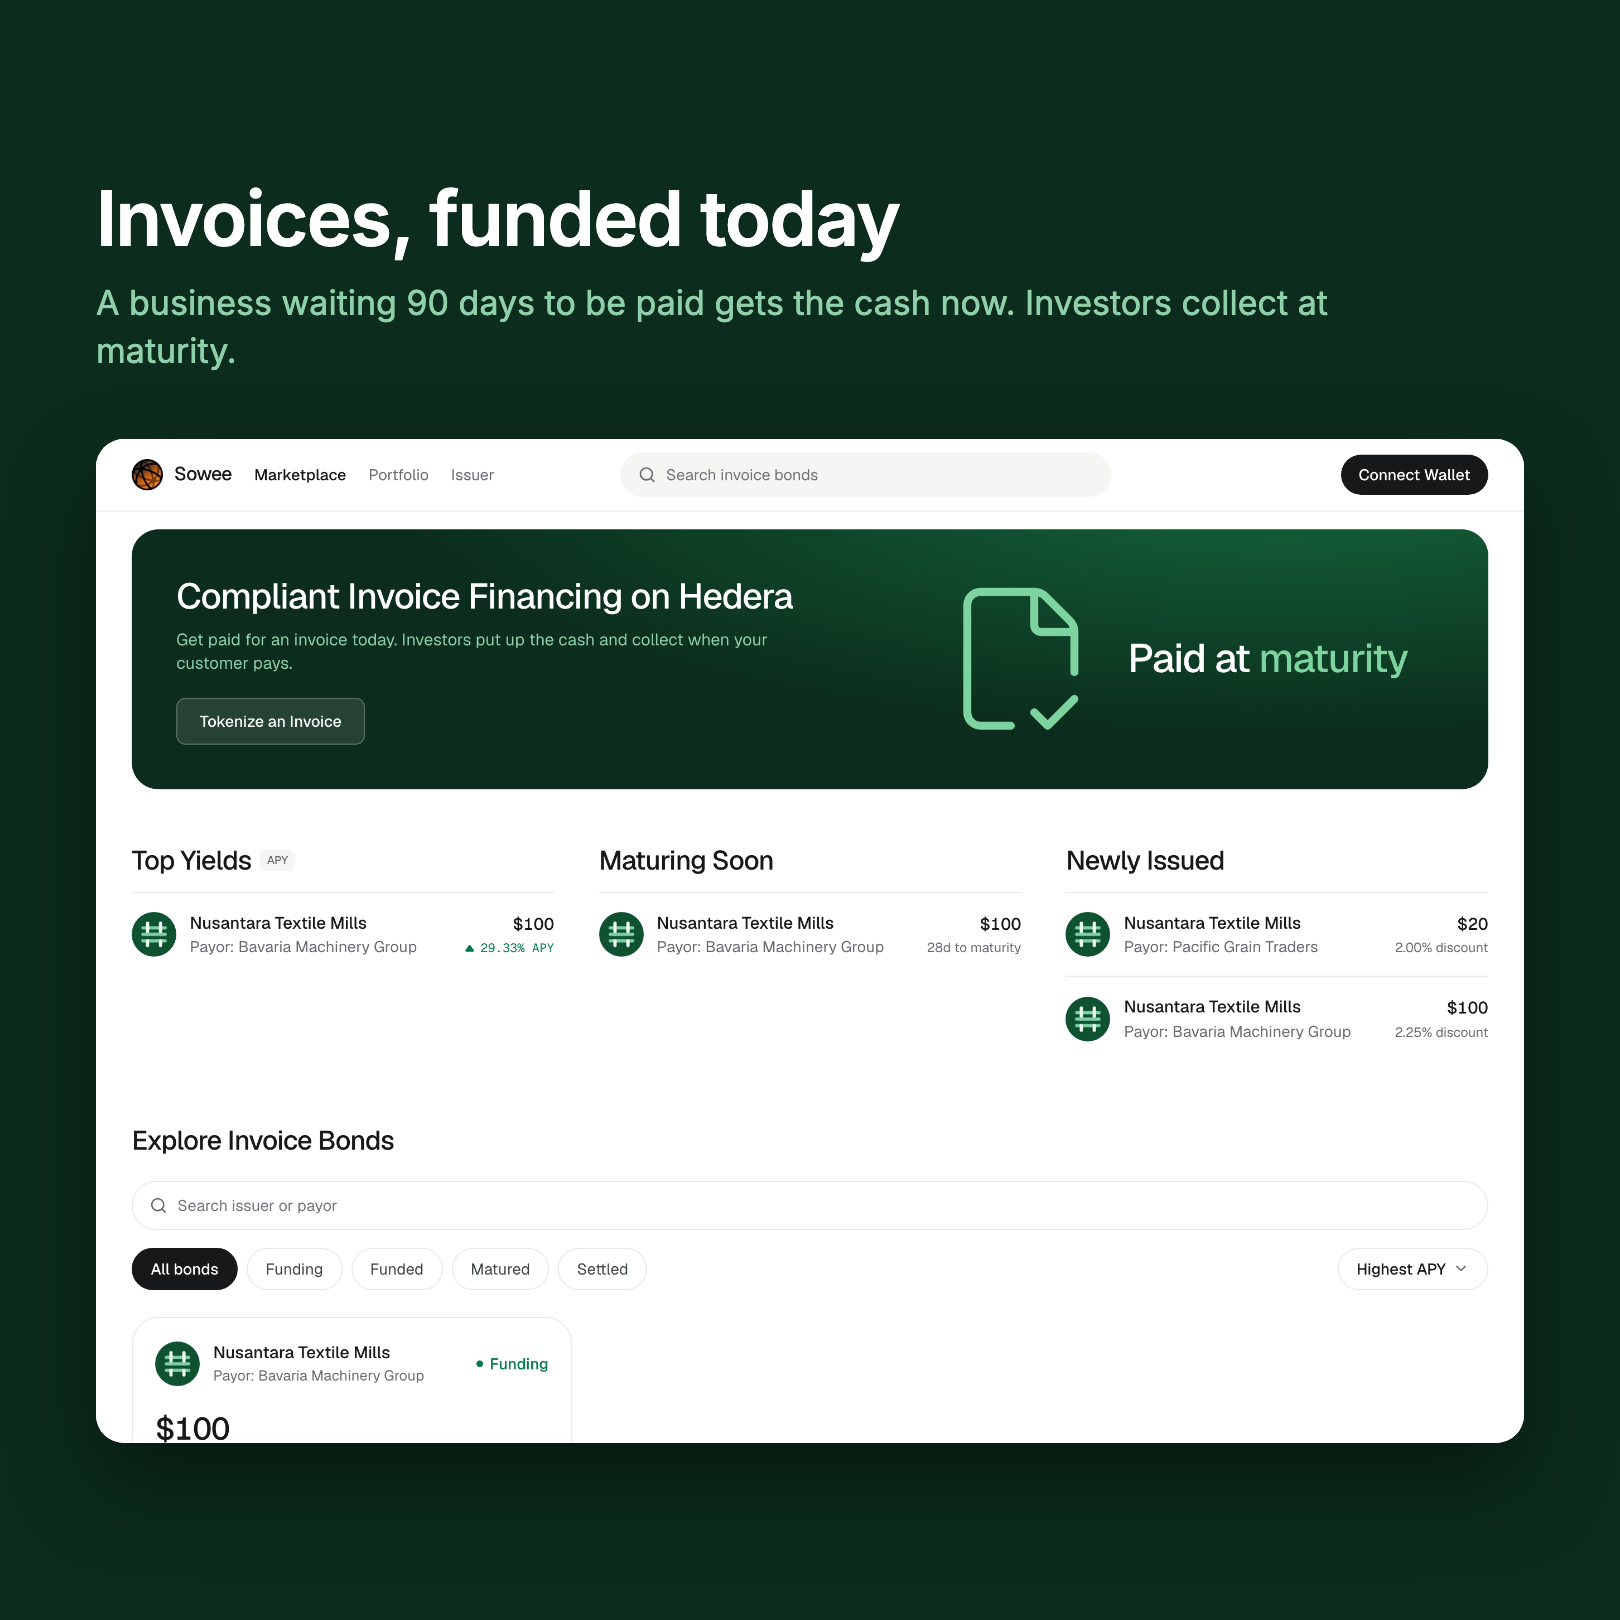
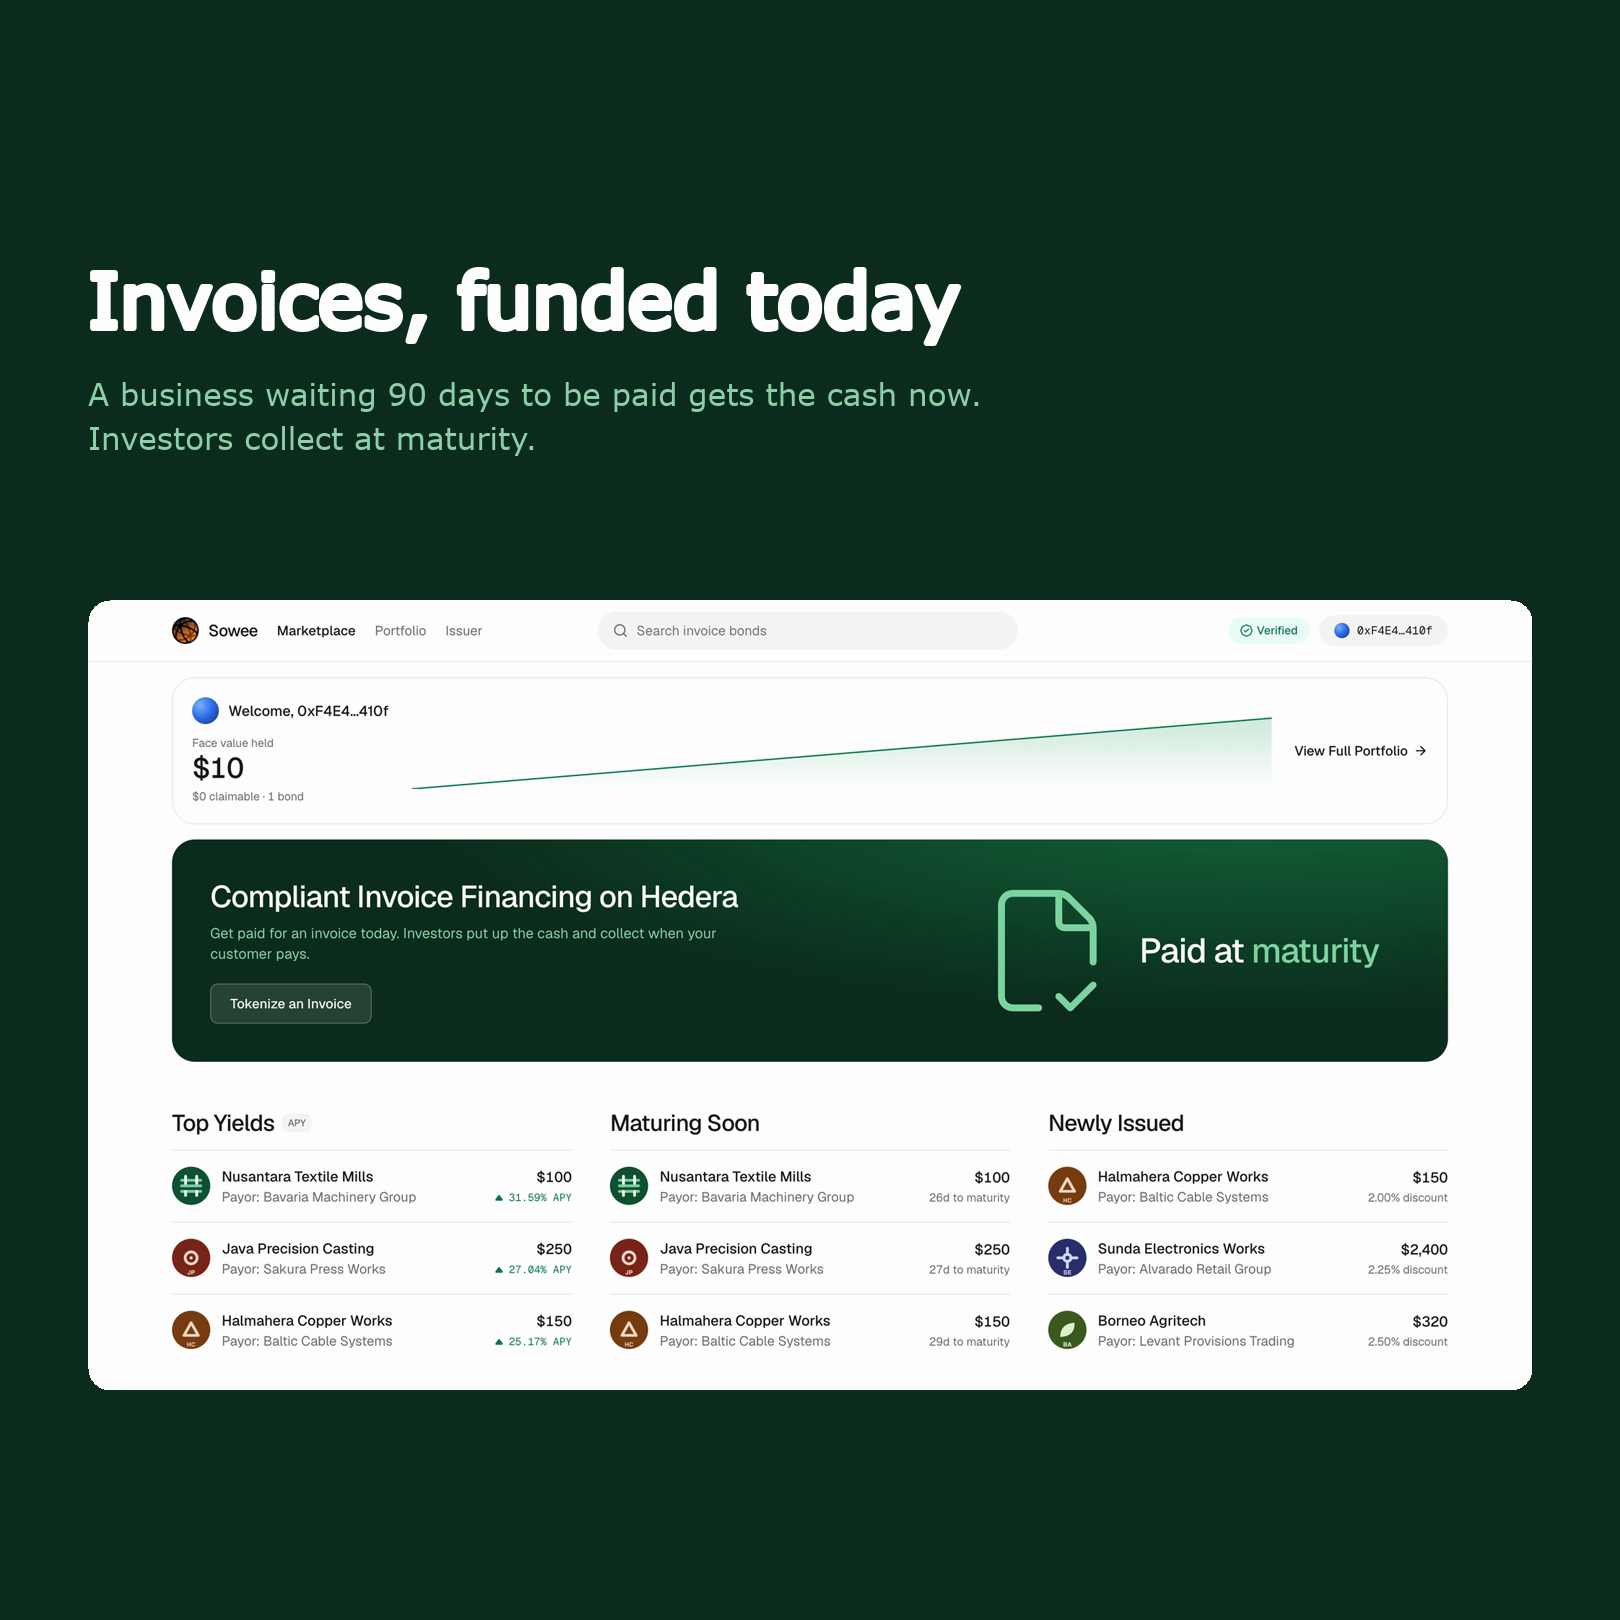
docs: rebuild the README cards from the market as it stands
The three cards were captured on 8 September, when every listing was the same
issuer and no wallet had ever connected. The market now holds eight bonds from
seven issuers, and a verified wallet shows a badge and a portfolio strip that the
old frames could not.

The design was fine and only the contents were stale, but rebuilding one meant
redoing the typography by eye. make-card.py composes a card instead, reading Geist
out of the app own font files so the cards and the product cannot drift apart.

Two files are renamed to what they now hold.

Refs #172

diff --git a/docs/showcase/make-card.py b/docs/showcase/make-card.py
@@ -1,0 +1,34 @@
+
+import subprocess, sys, json
+FONT="/Users/koalaterbang/hackathon/sowee/node_modules/.bun/next@16.3.4+cc1ec0e6eac13575/node_modules/next/dist/next-devtools/server/font/geist-latin.woff2"
+BG="#0c2d1d"; W=H=1620; PAD=88; CARD_W=W-2*PAD; R=22
+HEAD_SIZE=76; SUB_SIZE=31; GAP=130
+
+def esc(t): return t.replace("\\", "\\\\").replace(":", "\\:").replace("'", "’")
+
+def build(src, heading, sub_lines, out):
+    p=json.loads(subprocess.run(["ffprobe","-v","error","-show_entries","stream=width,height","-of","json",src],capture_output=True,text=True).stdout)
+    sw,sh=p["streams"][0]["width"],p["streams"][0]["height"]
+    ch=int(round(CARD_W*sh/sw)); ch-=ch%2
+    text_h = HEAD_SIZE + 36 + 44*len(sub_lines)
+    free = H - (text_h + GAP + ch)
+    head_y = int(free*0.54)                      # a touch more air above than below
+    card_y = head_y + text_h + GAP
+    rounded=("[1:v]scale=%d:%d,format=rgba,geq=r='r(X,Y)':g='g(X,Y)':b='b(X,Y)':"
+             "a='if(gt(abs(X-(W/2)),(W/2-%d))*gt(abs(Y-(H/2)),(H/2-%d)),"
+             "if(lte(hypot(abs(X-(W/2))-(W/2-%d),abs(Y-(H/2))-(H/2-%d)),%d),255,0),255)'[card]") % (CARD_W,ch,R,R,R,R,R)
+    chain=[rounded, "[0:v][card]overlay=%d:%d[base]" % (PAD, card_y)]
+    t=["drawtext=fontfile='%s':text='%s':fontcolor=white:fontsize=%d:borderw=3:bordercolor=white:x=%d:y=%d"
+       % (FONT, esc(heading), HEAD_SIZE, PAD, head_y)]
+    y=head_y+HEAD_SIZE+36
+    for ln in sub_lines:
+        t.append("drawtext=fontfile='%s':text='%s':fontcolor=#8fd0aa:fontsize=%d:x=%d:y=%d" % (FONT, esc(ln), SUB_SIZE, PAD, y))
+        y+=44
+    chain.append("[base]" + ",".join(t) + "[out]")
+    subprocess.run(["ffmpeg","-hide_banner","-v","error","-y","-f","lavfi","-i","color=%s:%dx%d"%(BG,W,H),
+                    "-i",src,"-filter_complex",";".join(chain),"-map","[out]","-frames:v","1",out],check=True)
+    print("  %-20s card %dx%d  head y=%d  card y=%d  bottom %d" % (out, CARD_W, ch, head_y, card_y, H-card_y-ch))
+
+if __name__=="__main__":
+    build(*json.loads(sys.argv[1]))
+

diff --git a/docs/showcase/README.md b/docs/showcase/README.md
@@ -1,0 +1,28 @@
+# Showcase cards
+
+The three 1620×1620 cards the root README opens with, and the gallery images for the submission.
+
+| File | Where it is used |
+|---|---|
+| `1-marketplace.png` | root README — the market, with the portfolio strip and the three lists |
+| `2-compliance.png` | root README — a bond page, whose buy panel carries the eligibility rule |
+| `3-portfolio.png` | root README — holdings, with the network and timestamp in the header |
+| `cover.png`, `cover-640x360.png` | the submission's cover image |
+| `meta.png` | the wordmark at the top of the root README |
+| `16x9/` | the 1920×1080 submission screenshots |
+
+## Rebuilding a card
+
+`make-card.py` composes one: the dark ground, the heading and subhead in Geist, and the
+screenshot rounded and dropped in. It reads the type from the app's own font, so the cards and
+the product cannot drift apart.
+
+```sh
+python3 docs/showcase/make-card.py '["shot.png","Heading",["First line.","Second line."],"out.png"]'
+```
+
+The layout is derived, not hardcoded: the card keeps its screenshot's aspect ratio and the free
+space is split above and below, so a shot of any shape still lands balanced. Ground `#0c2d1d`,
+heading white, subhead `#8fd0aa`, 88px margins, 22px corner radius.
+
+Screenshots go in `../screenshots/` at their natural size; these cards are built from them.

diff --git a/README.md b/README.md
@@ -18,7 +18,7 @@ A small business finishes a job, sends the invoice, then waits 30 to 90 days for
 Sowee turns that invoice into a bond an investor can fund now: the business gets most of the
 cash today, the investor collects the full amount when the customer pays.
 
-![Verified before you can hold](docs/showcase/2-kyc.png)
+![Verified before you can hold](docs/showcase/2-compliance.png)
 
 The rules are enforced by the token, not by us. Every transfer checks an allowlist inside the
 bond, so a wallet that has not passed identity, liveness and a suitability questionnaire cannot
@@ -28,7 +28,7 @@ decision goes on chain: no names, no documents, not even a hash of one.
 
 World's Selfie Check sits in front of that heavier check as an anti-sybil signal.
 
-![Live on Hedera testnet](docs/showcase/3-bond.png)
+![Live on Hedera testnet](docs/showcase/3-portfolio.png)
 
 Everything above runs on Hedera testnet with real transactions. There is no database and no file
 store anywhere in it: issuance, the sha256 of the invoice document and x402 payment receipts are

diff --git a/apps/web/README.md b/apps/web/README.md
@@ -44,11 +44,14 @@ to par over the tenor (`pricePath` in `src/lib/market.ts`); there is no on-chain
 
 ## Screenshots
 
-Hedera testnet, 1280×900 (`docs/screenshots/` also holds the 390×844 mobile shots).
+Hedera testnet, from the live app with a verified wallet connected (`docs/screenshots/` also
+holds the 390×844 mobile shots).
 
-![Marketplace: hero, top lists and the bond grid](../../docs/screenshots/marketplace.png)
+![Marketplace: the portfolio strip, the hero, and top yields, maturing soon and newly issued](../../docs/screenshots/marketplace.png)
 
-![Bond page: implied APY, accretion chart, buy panel, secondary asks and the HCS audit trail](../../docs/screenshots/bond.png)
+![Bond page: implied APY, the accretion to par, funding progress and the buy panel](../../docs/screenshots/bond.png)
+
+![Portfolio: face value held, the payoff line to the last maturity, and holdings](../../docs/screenshots/portfolio.png)
 
 ## How contracts flow in
 
